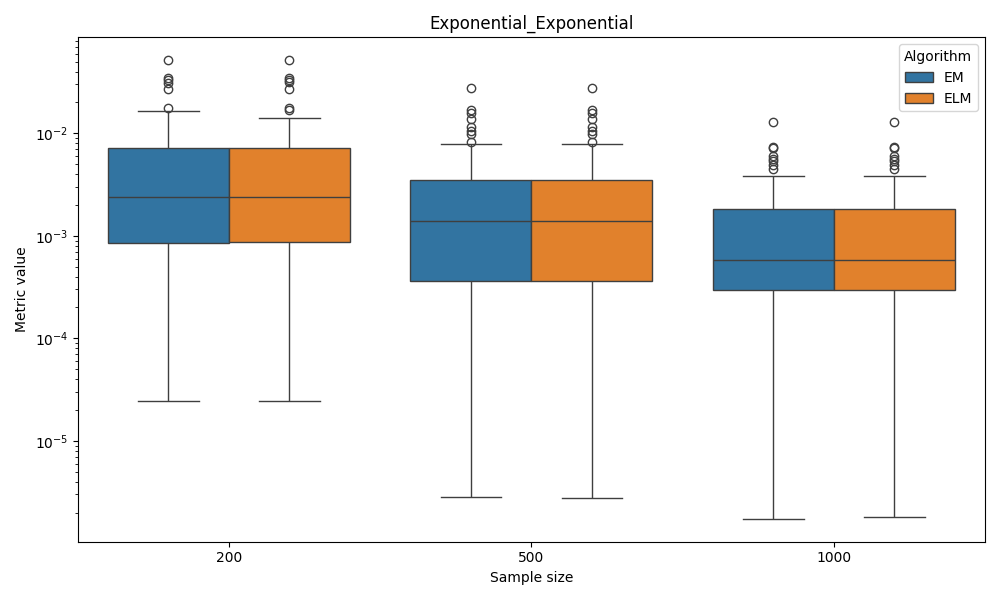
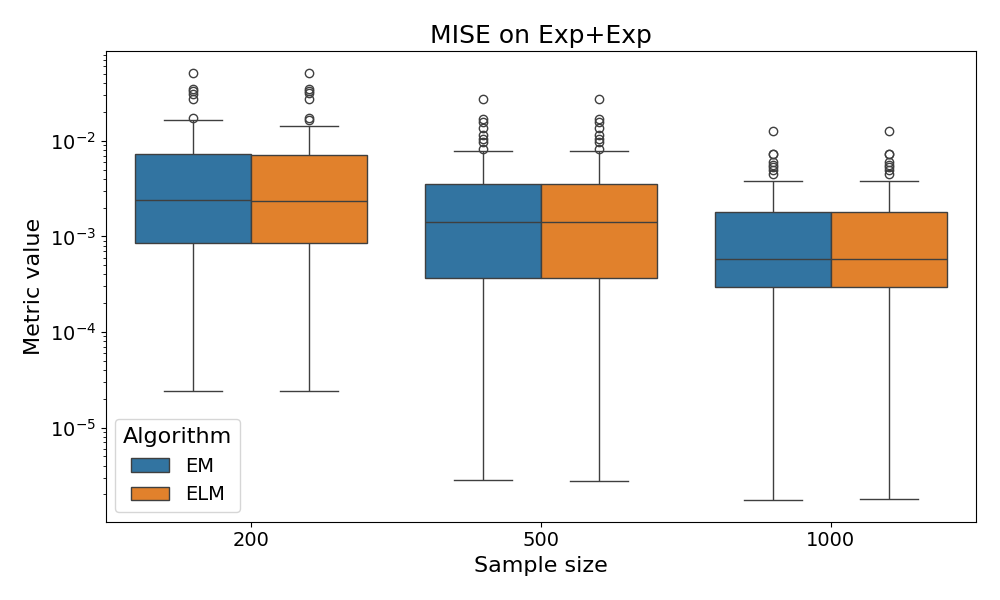
feature: Updated README file

diff --git a/README.md b/README.md
@@ -1,2 +1,39 @@
 # EM-algo-experiment
-A repository containing the results of experiments.
+
+This project aims to evaluate and compare the performance of the Expectation-Maximization (EM) algorithm against Expectation L-moments algorithm (ELM) for parameter estimation in various mixture models. 
+The evaluation focuses on the Mean Integrated Squared Error (MISE) metric and computational performance (execution time) across different underlying mixture distributions and sample sizes.
+
+## Project Structure
+
+*   `boxplots/`: Stores the final visualization comparing algorithm performance (MISE) for different mixture types and sample sizes.
+*   `experiment_XXX/`: Contains all data and results related to experiments run with a specific sample size (`XXX` being 200, 500, or 1000). Each experiment is broken down into stages.
+
+## Workflow Stages
+
+For each combination of mixture type (e.g., Exponential+Exponential, Gaussian+Gaussian) and sample size (200, 500, 1000), the experiment follows three main stages:
+
+1.  **Stage 1: Sample Generation** (Output in `stage_1/`)
+    *   Generates synthetic datasets (samples) from the specified initial mixture model.
+    *   Saves the generated samples, typically within the corresponding mixture type subfolder (e.g., `experiment_200/stage_1/Exponential_Exponential/`).
+
+2.  **Stage 2: Parameter Estimation** (Output in `stage_2/`)
+    *   Applies the implemented parameter estimation algorithms (EM and ELM) to the samples generated in Stage 1.
+    *   Saves the estimated parameters or model fits.
+
+3.  **Stage 3: Analysis & Evaluation** (Output in `stage_3/`)
+    *   Analyzes the results from Stage 2.
+    *   Calculates Mean Integrated Squared Error (MISE) comparing the estimated density to the true ones.
+    Based on the metric, it stores statistics such as mean, median, and standard deviation.
+    *   Measures and records the execution time (speed) of each algorithm during the estimation phase.
+
+## Results Visualization
+
+The `boxplots/` directory contains summary plots visualizing the key findings. An example plot (`boxplot_Exponential_Exponential.png`) might look like this:
+
+![Example Boxplot](boxplots/boxplot_Exponential_Exponential.png)
+
+These plots typically show:
+*   The distribution of MISE values obtained over multiple runs for both EM and ELM algorithms.
+*   Comparison across different sample sizes (200, 500, 1000) on the x-axis.
+*   The MISE metric on a logarithmic y-axis.
+*   The specific mixture model under consideration (e.g., "Exp+Exp" in the title).
